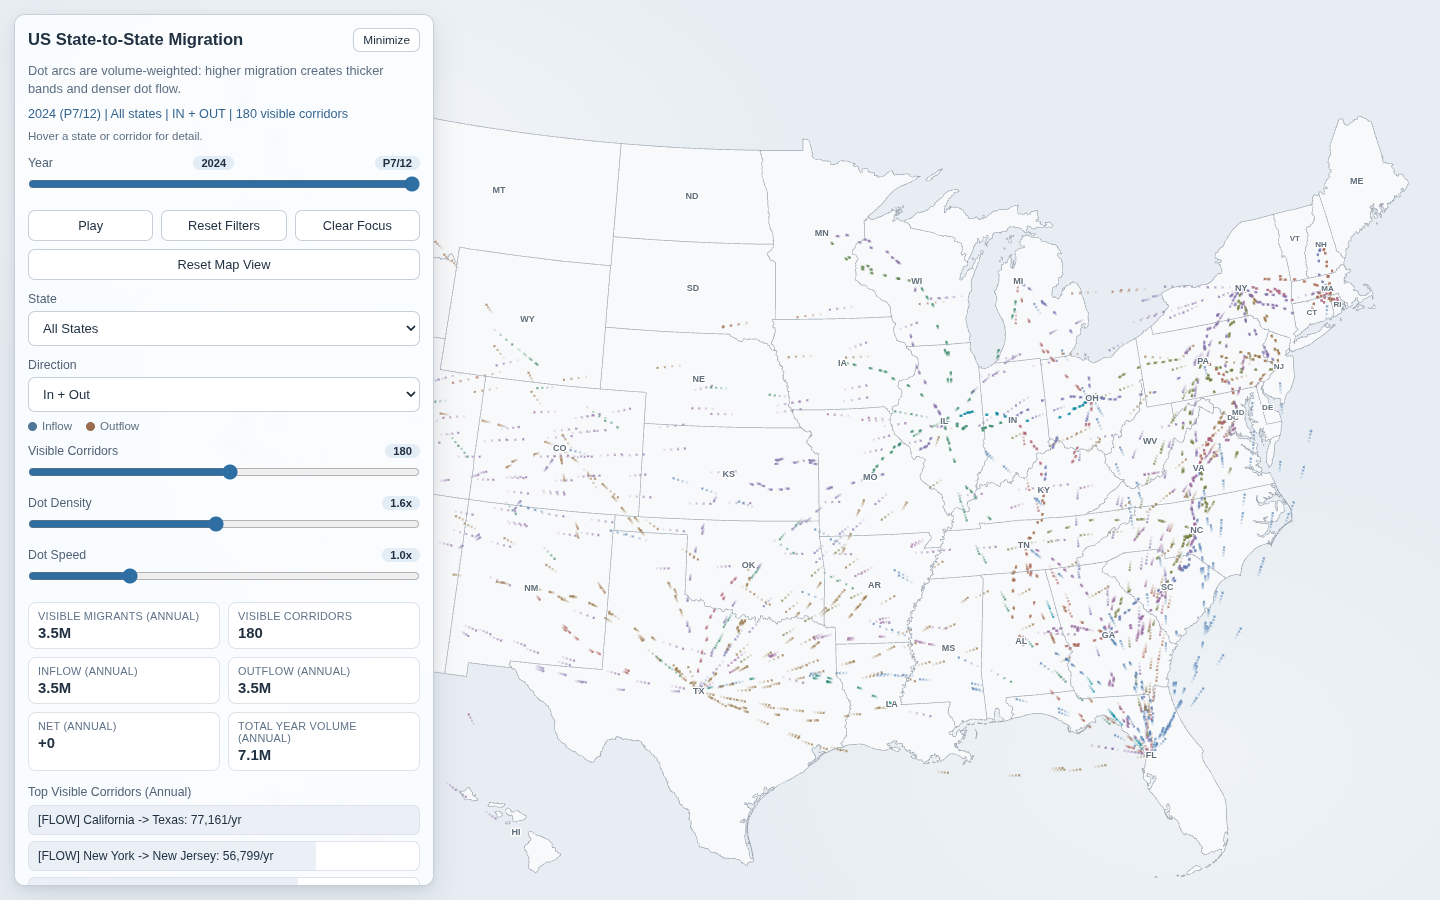
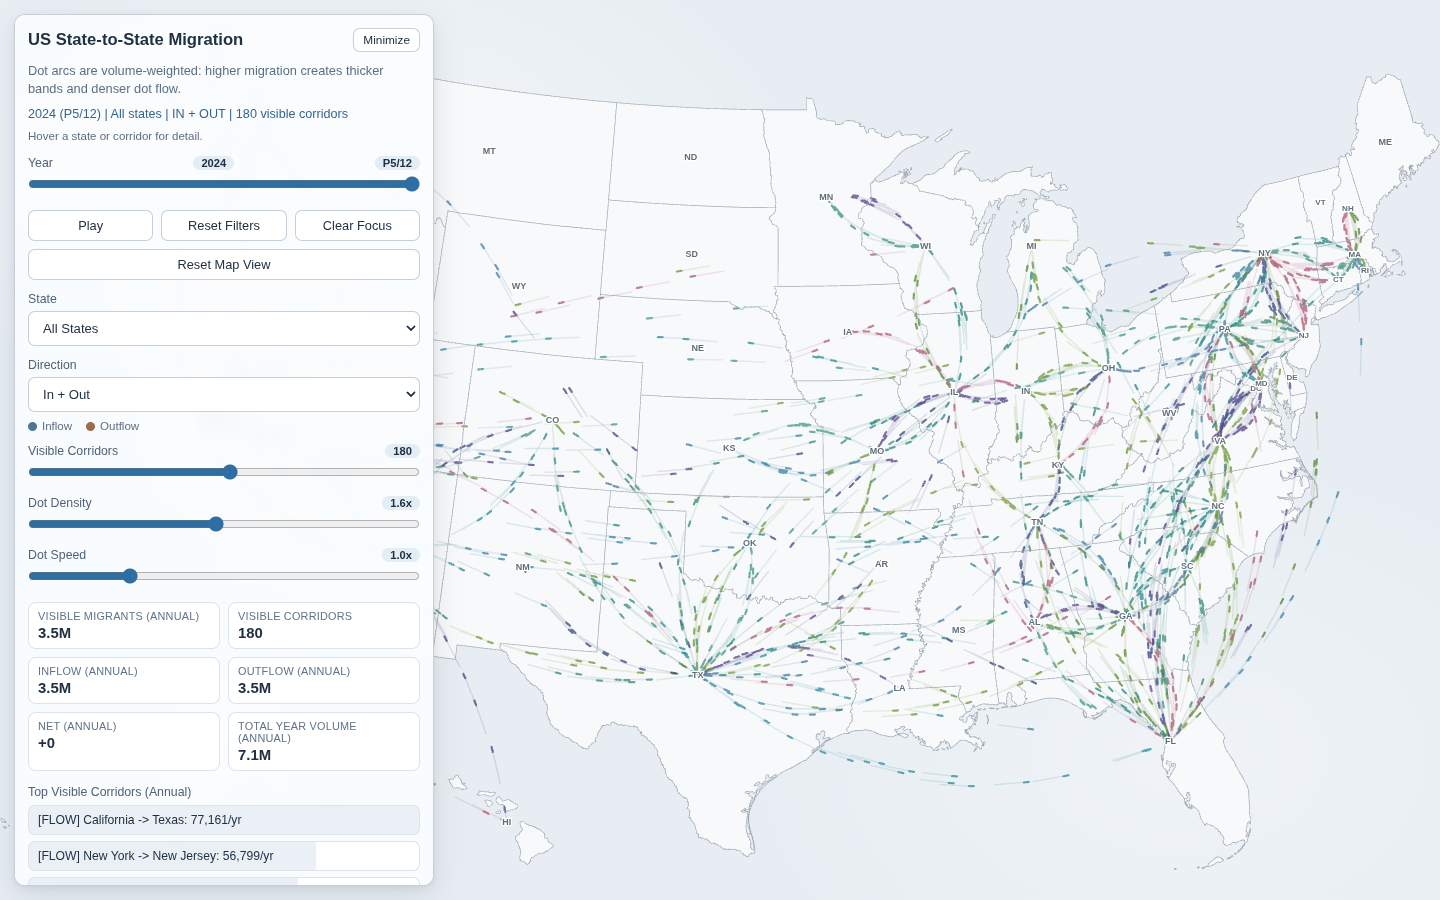
Match the original's state interactions and flow look; fix PRD review notes
- State borders behave like the reference: hovering a border only updates the
  detail line, clicking it toggles the State filter (no state focus/emphasis).
- Map fit measured from label positions (within 1px at 1440x900 and 390x844).
- Flow look matched from pixels: cool-weighted palette, more bowed lanes,
  short bright streak heads with faint trails.
- PRD: observable behaviour instead of rendering architecture (R4), corrected
  state click/hover claims, no replica/original framing; rubric 4 updated.

diff --git a/app.js b/app.js
@@ -16,8 +16,15 @@
   const PERIOD_MS = 450;
   const RANKING_SIZE = 10;
   const DIM_ALPHA = 0.35;
-  const DOT_ALPHA = 0.7;
-  const TRAIL_GHOSTS = 4;
+  const HEAD_ALPHA = 0.75;
+  const TRAIL_ALPHA = 0.16;
+  const HEAD_PX = 5; // bright streak length
+  const TRAIL_PX = 34; // faint trail behind it
+  // Corridor hues, weighted toward cool greens and teals with a few warm accents.
+  const FLOW_PALETTE = [
+    '#3f8f77', '#2f8a86', '#4a9a8a', '#358f9c', '#3f86a6', '#4f7fa8', '#46957f',
+    '#6f9a3f', '#5e8a3c', '#7fa04a', '#3e4f86', '#5b4a8e', '#b0607a',
+  ];
   const RESET_VIEW_MS = 240;
   const LOADED_NOTICE_MS = 1400;
 
@@ -59,7 +66,7 @@
   const model = {
     years: [], byYear: new Map(), yearIndex: 0, period: 0, playing: false,
     ...DEFAULTS,
-    focus: null, // { type: 'corridor', key } | { type: 'state', name }
+    focusKey: null, // corridor key picked from the ranking
     hoverKey: null,
     visible: [], ready: false, live: false,
   };
@@ -161,7 +168,7 @@
     ui.canvas.height = Math.round(height * ratio);
     ctx.setTransform(ratio, 0, 0, ratio, 0, 0);
 
-    geo.projection = d3.geoAlbersUsa().fitExtent([[0, height * 0.08], [width, height * 0.975]], geo.nation);
+    geo.projection = d3.geoAlbersUsa().fitExtent([[0, height * 0.031], [width, height * 0.966]], geo.nation);
     geo.path = d3.geoPath(geo.projection);
     geo.centroids.clear();
     for (const feature of geo.features) {
@@ -181,10 +188,16 @@
       .data(geo.features)
       .join('path')
       .attr('class', 'state-edge')
+      .attr('d', geo.path);
+    // Only the borders are interactive: a wide invisible stroke along each one.
+    hitView.selectAll('.state-hit')
+      .data(geo.features)
+      .join('path')
+      .attr('class', 'state-hit')
       .attr('d', geo.path)
       .on('pointerenter', (_, feature) => hoverState(feature.properties.name))
       .on('pointerleave', () => hoverState(null))
-      .on('click', (_, feature) => toggleStateFocus(feature.properties.name));
+      .on('click', (_, feature) => toggleStateFilter(feature.properties.name));
     hitView.selectAll('.state-tag')
       .data(geo.features.filter((f) => geo.centroids.has(f.properties.name) && POSTAL[f.properties.name]))
       .join('text')
@@ -195,7 +208,6 @@
 
     lanes.clear();
     syncLanes();
-    paintStateFocus();
   }
 
   // ---------------------------------------------------------------- corridor lanes and particles
@@ -210,7 +222,7 @@
     const length = Math.hypot(dx, dy) || 1;
     const nx = -dy / length;
     const ny = dx / length;
-    const bend = Math.min(length * 0.22, 90);
+    const bend = Math.min(length * 0.3, 140);
     return { x0, y0, x1, y1, cx: (x0 + x1) / 2 + nx * bend, cy: (y0 + y1) / 2 + ny * bend, nx, ny, length };
   }
 
@@ -226,8 +238,7 @@
   function corridorColor(corridor) {
     if (corridor.kind === 'IN') return INFLOW_COLOR;
     if (corridor.kind === 'OUT') return OUTFLOW_COLOR;
-    const hue = (hashString(corridor.from) % 360);
-    return d3.hcl(hue, 34, 50).formatHex();
+    return FLOW_PALETTE[hashString(corridor.key) % FLOW_PALETTE.length];
   }
 
   function hashString(text) {
@@ -251,7 +262,7 @@
         lane = { ...laneGeometry(from, to), width: 0, particles: [] };
         lanes.set(corridor.key, lane);
       }
-      Object.assign(lane, { corridor, share, color: corridorColor(corridor), targetWidth: 1.2 + 9 * Math.sqrt(share) });
+      Object.assign(lane, { corridor, share, color: corridorColor(corridor), targetWidth: 2 + 12 * Math.sqrt(share) });
     }
     for (const key of lanes.keys()) if (!keep.has(key)) lanes.delete(key);
   }
@@ -261,13 +272,11 @@
   }
 
   function isLit(lane) {
-    if (!model.focus) return true;
-    if (model.focus.type === 'corridor') return lane.corridor.key === model.focus.key;
-    return lane.corridor.from === model.focus.name || lane.corridor.to === model.focus.name;
+    return !model.focusKey || lane.corridor.key === model.focusKey;
   }
 
   function stepParticles(lane, seconds) {
-    const wanted = Math.max(1, Math.round((2 + 16 * Math.pow(lane.share, 0.6)) * model.density * pulse()));
+    const wanted = Math.max(1, Math.round((2 + 14 * Math.pow(lane.share, 0.6)) * model.density * pulse()));
     while (lane.particles.length < wanted) {
       lane.particles.push({ t: Math.random(), offset: (Math.random() - 0.5), pace: 0.8 + Math.random() * 0.4 });
     }
@@ -282,6 +291,20 @@
     }
   }
 
+  // Strokes one segment per particle, `length` px long and ending at its head.
+  function strokeParticles(lane, length) {
+    const span = length / Math.max(lane.length, 1);
+    ctx.beginPath();
+    for (const particle of lane.particles) {
+      const offset = particle.offset * lane.width;
+      const [tx, ty] = pointOnLane(lane, Math.max(0, particle.t - span), offset);
+      const [hx, hy] = pointOnLane(lane, particle.t, offset);
+      ctx.moveTo(tx, ty);
+      ctx.lineTo(hx, hy);
+    }
+    ctx.stroke();
+  }
+
   function drawFlows(seconds) {
     const { width, height } = ui.canvas.getBoundingClientRect();
     const ratio = window.devicePixelRatio || 1;
@@ -289,26 +312,21 @@
     ctx.setTransform(ratio, 0, 0, ratio, 0, 0);
     ctx.clearRect(0, 0, width, height);
     ctx.setTransform(ratio * k, 0, 0, ratio * k, ratio * x, ratio * y);
+    ctx.lineCap = 'round';
 
-    const dotRadius = 1.05 / Math.sqrt(k);
+    const lineScale = 1 / Math.sqrt(k);
     for (const lane of lanes.values()) {
       lane.width += (lane.targetWidth - lane.width) * Math.min(1, seconds * 6);
       stepParticles(lane, seconds);
-      const lit = isLit(lane);
+      const strength = isLit(lane) ? 1 : DIM_ALPHA;
       const hovered = lane.corridor.key === model.hoverKey;
-      ctx.fillStyle = lane.color;
-      for (const particle of lane.particles) {
-        // A short fading streak: the head plus three ghosts behind it.
-        for (let ghost = 0; ghost < TRAIL_GHOSTS; ghost += 1) {
-          const t = particle.t - ghost * 0.007;
-          if (t <= 0) continue;
-          const [px, py] = pointOnLane(lane, t, particle.offset * lane.width);
-          ctx.globalAlpha = (lit ? DOT_ALPHA : DIM_ALPHA * DOT_ALPHA) * (1 - ghost / TRAIL_GHOSTS);
-          ctx.beginPath();
-          ctx.arc(px, py, hovered ? dotRadius * 1.6 : dotRadius, 0, Math.PI * 2);
-          ctx.fill();
-        }
-      }
+      ctx.strokeStyle = lane.color;
+      ctx.globalAlpha = TRAIL_ALPHA * strength;
+      ctx.lineWidth = 1.4 * lineScale;
+      strokeParticles(lane, TRAIL_PX);
+      ctx.globalAlpha = HEAD_ALPHA * strength;
+      ctx.lineWidth = (hovered ? 3.4 : 2.2) * lineScale;
+      strokeParticles(lane, HEAD_PX);
     }
     ctx.globalAlpha = 1;
   }
@@ -386,35 +404,25 @@
 
   function paintLeaderFocus() {
     for (const item of ui.leaders.querySelectorAll('.leader[data-key]')) {
-      const [from, to] = item.dataset.key.split('>');
-      const active = model.focus?.type === 'corridor'
-        ? model.focus.key === item.dataset.key
-        : model.focus?.type === 'state' && (from === model.focus.name || to === model.focus.name);
-      item.classList.toggle('is-active', Boolean(active));
+      item.classList.toggle('is-active', item.dataset.key === model.focusKey);
     }
-  }
-
-  function paintStateFocus() {
-    ui.hit.selectAll('.state-edge')
-      .classed('is-focused', (f) => model.focus?.type === 'state' && model.focus.name === f.properties.name);
   }
 
   // Recomputes everything that depends on the filters or the year.
   function refresh() {
     if (!model.ready) return;
     model.visible = selectCorridors();
-    if (model.focus?.type === 'corridor' && !model.visible.some((c) => c.key === model.focus.key)) model.focus = null;
+    if (model.focusKey && !model.visible.some((c) => c.key === model.focusKey)) model.focusKey = null;
     syncLanes();
     renderStatus();
     renderTiles(summarize(model.visible));
     renderLeaders();
-    paintStateFocus();
   }
 
   // ---------------------------------------------------------------- interactions
 
+  // Hovering a border only reports that state's totals in the detail line.
   function hoverState(name) {
-    ui.hit.selectAll('.state-edge').classed('is-hovered', (f) => f.properties.name === name);
     if (!name || !model.ready) {
       ui.detail.textContent = 'Hover a state or corridor for detail.';
       return;
@@ -424,23 +432,22 @@
   }
 
   function toggleCorridorFocus(key) {
-    model.focus = model.focus?.type === 'corridor' && model.focus.key === key ? null : { type: 'corridor', key };
+    model.focusKey = model.focusKey === key ? null : key;
     paintLeaderFocus();
-    paintStateFocus();
   }
 
-  function toggleStateFocus(name) {
-    model.focus = model.focus?.type === 'state' && model.focus.name === name ? null : { type: 'state', name };
-    paintLeaderFocus();
-    paintStateFocus();
+  // Clicking a border selects that state in the State filter; clicking it again returns to all states.
+  function toggleStateFilter(name) {
+    model.state = model.state === name ? '' : name;
+    ui.state.value = model.state;
+    refresh();
   }
 
   function clearFocus() {
-    model.focus = null;
+    model.focusKey = null;
     model.hoverKey = null;
     ui.detail.textContent = 'Hover a state or corridor for detail.';
     paintLeaderFocus();
-    paintStateFocus();
   }
 
   function setPlaying(playing) {

diff --git a/styles.css b/styles.css
@@ -81,23 +81,20 @@ body {
 }
 
 .state-edge {
-  fill: transparent;
+  fill: none;
   stroke: #9fa9b3;
   stroke-width: 0.7;
   vector-effect: non-scaling-stroke;
+  pointer-events: none;
+}
+
+.state-hit {
+  fill: none;
+  stroke: transparent;
+  stroke-width: 7;
+  vector-effect: non-scaling-stroke;
+  pointer-events: stroke;
   cursor: pointer;
-}
-
-.state-edge:hover,
-.state-edge.is-hovered {
-  fill: #2f6ea312;
-  stroke: var(--accent);
-  stroke-width: 1.4;
-}
-
-.state-edge.is-focused {
-  stroke: var(--accent);
-  stroke-width: 1.8;
 }
 
 .state-tag {

diff --git a/PRD.md b/PRD.md
@@ -3,14 +3,13 @@
 ## Product Overview
 
 A single-page interactive data visualization of US state-to-state migration. A
-full-viewport D3 map of the United States carries animated canvas dot-flow arcs
+full-viewport map of the United States carries animated dot-flow arcs
 between states, and a floating control panel exposes the year scrubber,
 playback, filters, live statistics, and a clickable corridor ranking.
 
-The experience is a functional replica of the original migration-flow page: one
-route (`/`), no accounts, no backend. All rendering is client-side; the only
-data is a vendored Census-sourced CSV plus vendored D3, topojson-client, and
-us-atlas geometry. There are no placeholder states — every control is live.
+The experience is a single page (`/`) with no accounts or sign-in. It covers
+Census state-to-state migration for every available year and needs no network
+access once loaded. There are no placeholder states — every control is live.
 
 ## Audience and Core Journey
 
@@ -27,9 +26,10 @@ The core journey is short:
    sub-year periods.
 3. Filter by state and direction, trim the corridor count, or tune dot density
    and speed, and watch the arcs, statistics, and ranking recompute live.
-4. Hover a state or corridor for its detail line; click a state boundary or a
-   ranking row to focus one corridor while the rest dim; clear the focus to
-   restore the full flow field.
+4. Hover a state border or a corridor for its detail line; click a state
+   border to filter to that state (click it again to return to all states),
+   or click a ranking row to focus one corridor while the rest dim; clear the
+   focus to restore the full flow field.
 5. Pan and zoom the map freely, then reset the view.
 
 ## Global Design System
@@ -57,8 +57,8 @@ The visual language is a light cartographic theme with a frosted control panel.
 
 ### Map and flow rendering
 
-- Three stacked layers: base SVG (nation + state fills), canvas (dot arcs,
-  pointer-transparent), overlay SVG (boundaries, labels, hover targets).
+- Moving dots pass over the state fills, while state borders and postal labels
+  stay crisp on top of them; the dots never block hovering or clicking borders.
 - Band width and particle count both scale with corridor volume, so a heavier
   corridor reads as a wider, busier arc.
 - Inflow and outflow occupy offset lanes rather than sharing a path, keeping
@@ -132,7 +132,8 @@ The panel is an `aside` fixed over the map, open by default:
 - Direction dropdown filters to both flows, outflow only, or inflow only; the
   legend below it always shows both swatches.
 - Corridor slider keeps the top N flows by value (30–320). Density and speed
-  sliders rescale particle count and velocity live without rebuilding routes.
+  sliders rescale particle count and velocity live without changing which
+  corridors are shown.
 - Reset Filters restores all six defaults — year to latest, state to all,
   direction to both, and the three sliders to the values below — then clears
   focus and hover.
@@ -171,14 +172,15 @@ Exact copy:
 - US states with postal-abbreviation labels; District of Columbia, Puerto
   Rico, and territories included in geometry; labels stay legible over flow
   via a white halo.
-- Hovering a state boundary emphasizes it and shows its in/out/net detail in
-  the context line; clicking toggles a state-scoped focus equivalent to the
-  ranking click.
+- Hovering near a state border shows that state's in/out/net detail in the
+  context line; the map itself does not change. Clicking a border selects that
+  state in the State filter, exactly like choosing it from the dropdown;
+  clicking the same border again returns to all states.
 - Drag pans (bounded translate extent), wheel/pinch zooms; double-click zoom
   is disabled so rapid corridor clicking never jumps the view.
 - `Reset Map View` returns to the fitted nation view with a 240ms ease.
-- Geometry comes from the vendored us-atlas `states-10m.json` via
-  topojson-client; no tile server, no network.
+- State shapes ship with the page; the map never loads tiles or other remote
+  imagery.
 
 Exact copy:
 
@@ -210,12 +212,12 @@ Exact copy:
 - All controls are native inputs, selects, and buttons — keyboard reachable
   with visible accent focus by default; ranking rows are list items with
   click handlers and hover equivalents on the map itself.
-- Canvas flow is decorative motion over an SVG map whose state boundaries are
-  the interactive targets; every canvas-only effect (focus dimming, pulses)
-  has a panel-side equivalent (active row, badges, stats).
+- The moving dots are decorative; state borders are the interactive map
+  targets, and every dot-only effect (focus dimming, pulses) has a panel-side
+  equivalent (active row, badges, stats).
 - Touch: panel controls are full-width rows; the map remains pannable around
   the panel on small screens.
-- No motion-preference switch exists in the original; none is added.
+- There is no separate reduced-motion switch; playback can be paused at any time.
 
 ## Acceptance Criteria
 
@@ -237,9 +239,11 @@ Exact copy:
   - Corridor/density/speed sliders update badges and rendering live
   - Reset Filters restores all six defaults and clears focus
 - Focus and map:
-  - Hovering a state or ranking row shows its detail in the context line
-  - Clicking a state boundary or ranking row focuses it and dims the rest;
-    clicking again unfocuses; Clear Focus restores
+  - Hovering a state border or ranking row shows its detail in the context line
+  - Clicking a state border filters to that state; clicking it again returns
+    to all states
+  - Clicking a ranking row focuses that corridor and dims the rest; clicking
+    again or Clear Focus restores
   - Drag pans, scroll zooms, Reset Map View refits the nation
   - Impossible filter combination shows the empty message with zeroed stats
 - Panel and URL:
